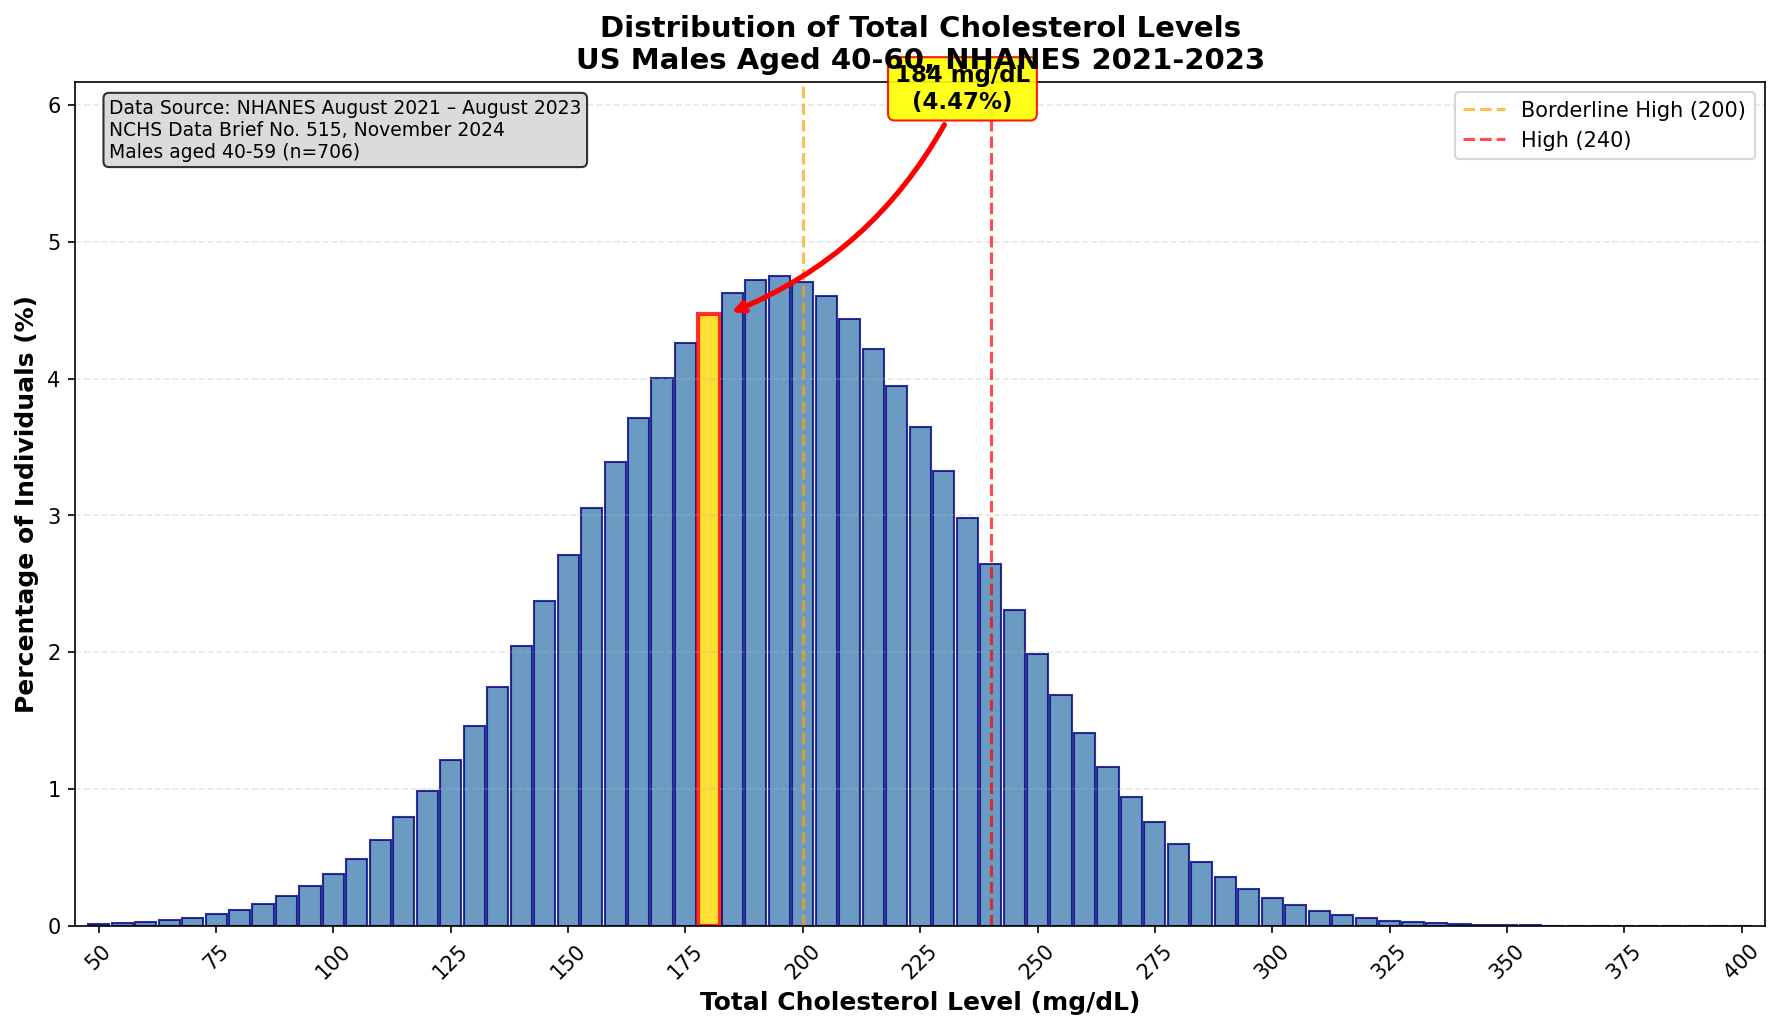
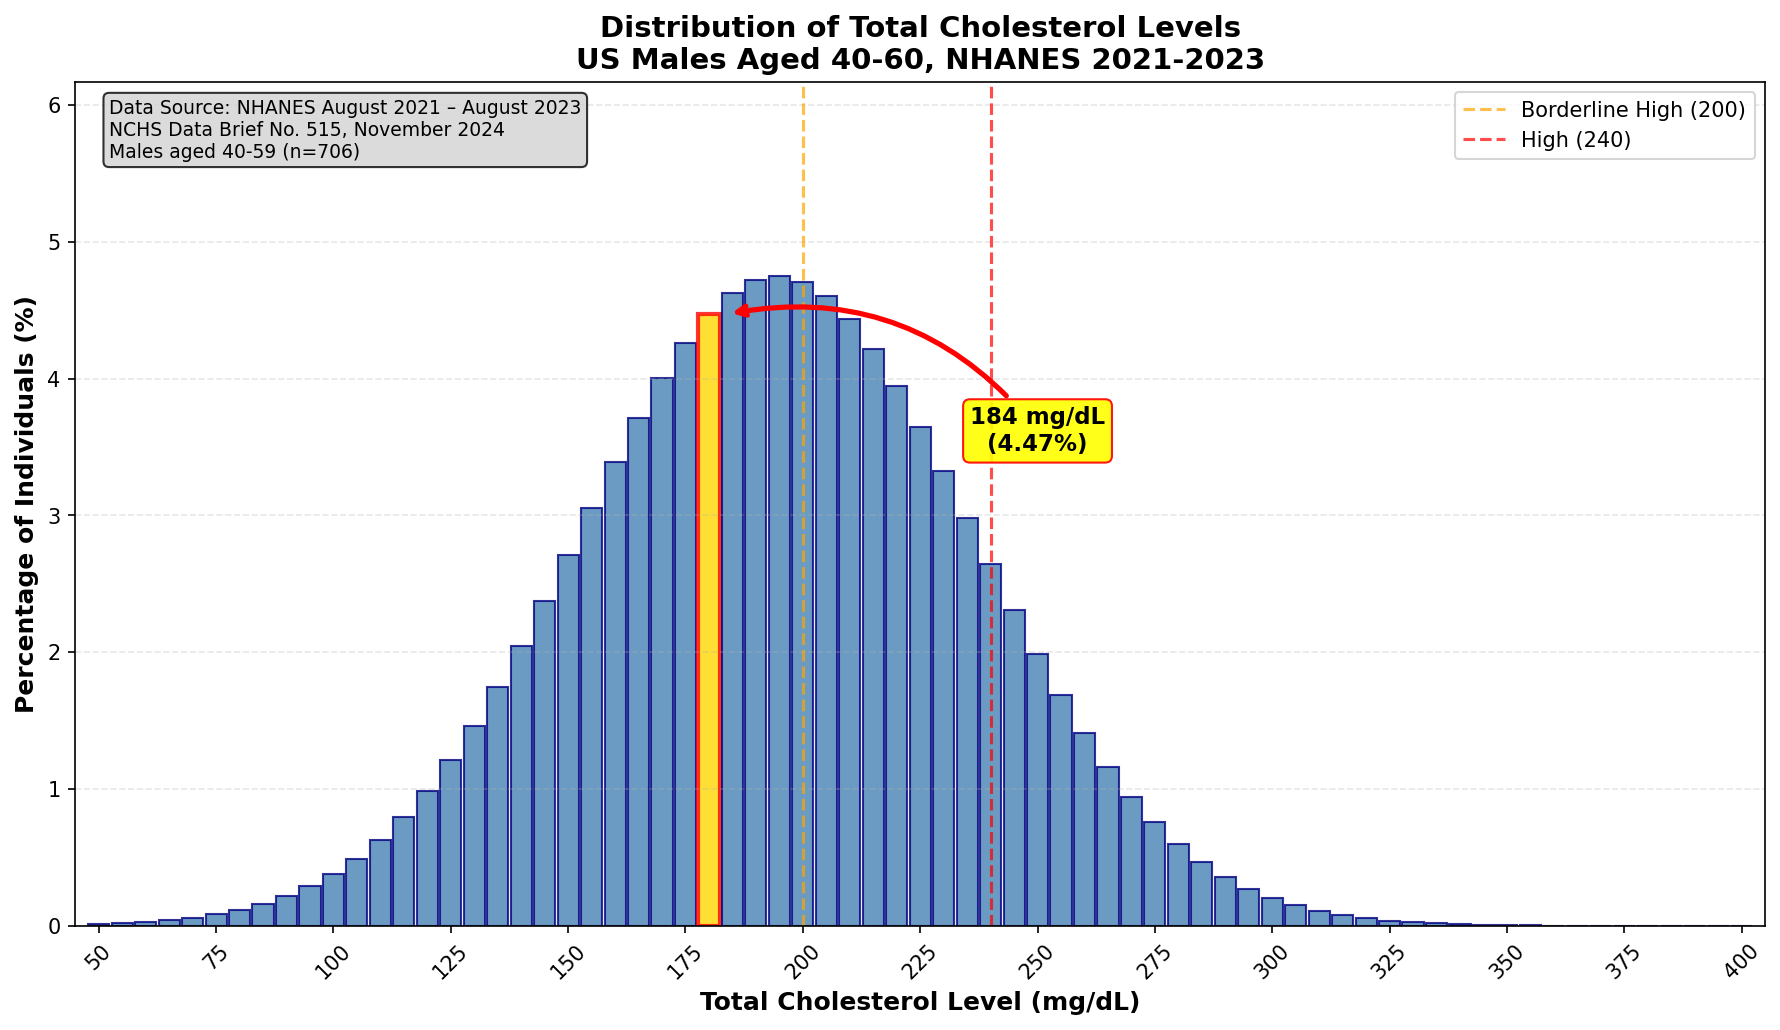
TASK1 : "Updated file structure and modified cholesterol distribution analysis png and script."

diff --git a/task1/cholesterol_distribution.py b/task1/cholesterol_distribution.py
@@ -19,6 +19,7 @@ The distribution is modeled as a normal distribution with parameters estimated f
 published NHANES statistics and adjusted to match the 18.3% prevalence above 240 mg/dL.
 """
 
+import os
 import numpy as np
 import pandas as pd
 import matplotlib.pyplot as plt
@@ -36,6 +37,9 @@ STEP = 5
 
 # Target cholesterol level for arrow annotation
 TARGET_LEVEL = 184
+
+# Get the directory where this script is located
+SCRIPT_DIR = os.path.dirname(os.path.abspath(__file__))
 
 def generate_cholesterol_distribution():
     """
@@ -65,7 +69,7 @@ def create_csv(cholesterol_levels, percentages):
         'cholesterol_level': cholesterol_levels,
         'population_perc': np.round(percentages, 4)
     })
-    csv_path = 'd:/Work/Mindrift/cholesterol_distribution.csv'
+    csv_path = os.path.join(SCRIPT_DIR, 'cholesterol_distribution.csv')
     df.to_csv(csv_path, index=False)
     print(f"CSV saved to: {csv_path}")
     return df
@@ -86,7 +90,7 @@ def create_plot(cholesterol_levels, percentages):
     ax.annotate(
         f'184 mg/dL\n({perc_at_184:.2f}%)',
         xy=(184, perc_at_184),
-        xytext=(184 + 50, perc_at_184 + 1.5),
+        xytext=(250, perc_at_184 - 1),
         fontsize=11,
         fontweight='bold',
         ha='center',
@@ -94,7 +98,7 @@ def create_plot(cholesterol_levels, percentages):
             arrowstyle='->',
             color='red',
             lw=2.5,
-            connectionstyle='arc3,rad=-0.2'
+            connectionstyle='arc3,rad=0.3'
         ),
         bbox=dict(boxstyle='round,pad=0.3', facecolor='yellow', edgecolor='red', alpha=0.9)
     )
@@ -146,7 +150,7 @@ def create_plot(cholesterol_levels, percentages):
     plt.tight_layout()
     
     # Save figure
-    plot_path = 'd:/Work/Mindrift/cholesterol_distribution.png'
+    plot_path = os.path.join(SCRIPT_DIR, 'cholesterol_distribution.png')
     plt.savefig(plot_path, dpi=150, bbox_inches='tight')
     print(f"Plot saved to: {plot_path}")
     
